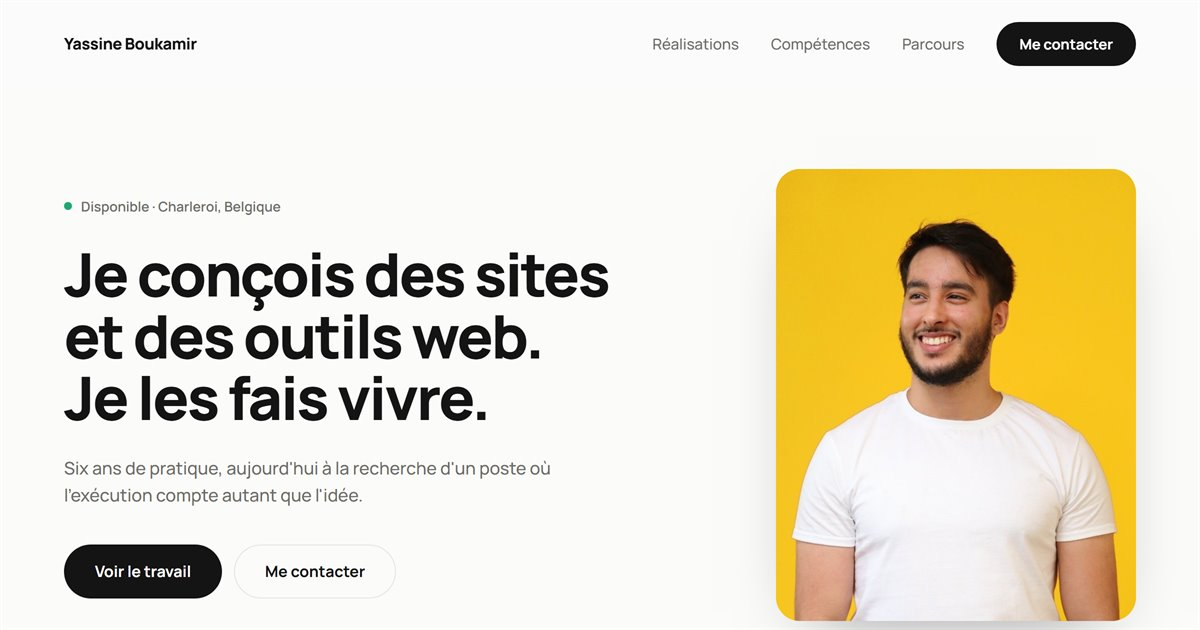
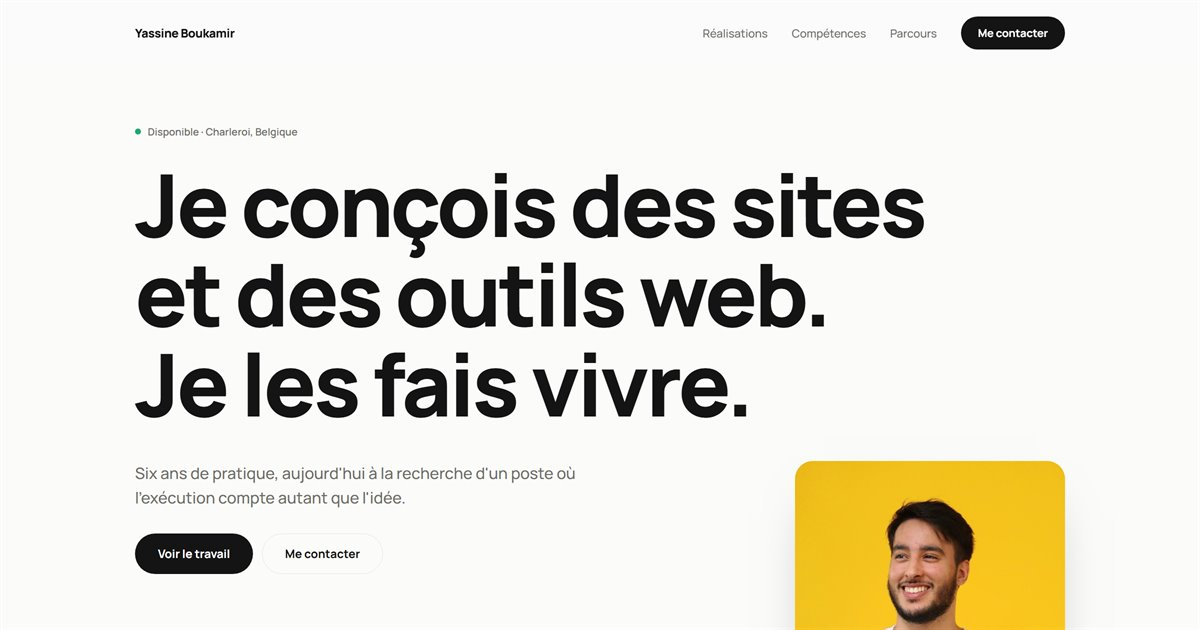
Refonte le heros en pleine largeur
Le titre occupe toute la largeur, seul sur sa ligne. Le chapo, les boutons et
la photo se partagent la ligne du dessous.

Ce n'est pas cosmetique. Tant que le titre partageait sa ligne avec la photo,
sa colonne faisait 715 px a 1440 et le plafonnait a 78 : les titres de
section, montes a 110 hier soir, finissaient par le depasser. En pleine
largeur il dispose de 1240 px et monte a 116. La hierarchie est retablie.

La photo passe de 0,589fr a 0,45fr. A egalite avec le titre elle etait une
co-vedette ; maintenant que le titre occupe toute la largeur, elle est un
second role. Gardee a sa taille d'avant, elle descendait 390 px plus bas que
les boutons et creusait un vide que rien ne justifiait.

align-items: start et non end. Aligne en bas, le bloc chapo + boutons se
retrouvait a 437 px sous le titre, separe de lui par un vide absurde.

LA PENTE, ENCORE. Troisieme fois en une soiree que le titre bascule a quatre
lignes entre deux largeurs ou il en fait trois -- a 905, puis a 1280, puis a
1201. Toujours la meme cause : au franchissement d'une rupture, la marge
laterale et la largeur de la photo changent d'un coup, et la colonne de texte
RETRECIT alors que la fenetre s'elargit. A 9vw, la marge tombait a 8 px sur
une ligne de 993 juste au-dessus de 1200. A 8,7vw elle ne descend jamais sous
41 px : verifie a 901 (50 px) et a 1201 (41 px), les deux points serres.

Apercu de partage : le script capture maintenant 1600 x 840 puis reduit, au
[…]

diff --git a/css/style.css b/css/style.css
@@ -223,20 +223,32 @@ a { color: inherit; }
 
 /* ========== 6. HÉROS ========== */
 
-.heros { padding-block: 80px 110px; }
-.heros-grille {
+.heros { padding-block: 72px 64px; }
+
+/* Le titre occupe désormais toute la largeur, seul. Ce qui suit — chapô,
+   boutons, photo — se partage la ligne du dessous.
+
+   Ce n'est pas un caprice de mise en page : c'est ce qui débloque la taille du
+   titre. Tant qu'il partageait sa ligne avec la photo, sa colonne faisait
+   715 px à 1440 et le plafonnait à 78. En pleine largeur il dispose de
+   1240 px, et « Je conçois des sites » y tient jusqu'à 135 px. On s'arrête à
+   116 : au-delà, le titre à trois lignes dépasse la hauteur d'un écran de
+   portable et le chapô comme les boutons passent sous la ligne de flottaison. */
+.heros-bas {
   display: grid;
-  /* La photo était figée à 430 px. Conséquence invisible tant que le titre
-     restait petit : en franchissant 1200 px vers le haut, la marge passe de
-     64 à 100 px ET la photo de 360 à 430 — la colonne de texte perdait d'un
-     coup 165 px, alors qu'elle venait de gagner de la place. À 1280 px le
-     titre repassait donc à quatre lignes, entre deux largeurs où il en fait
-     trois.
-     En fractions, la proportion est celle de la maquette à 1440 (730 / 80 /
-     430) et elle se conserve en dessous au lieu de sauter. */
-  grid-template-columns: 1fr 0.589fr;
+  /* La photo rétrécit : 0,45fr au lieu de 0,589. Quand le titre partageait sa
+     ligne avec elle, ils étaient à égalité ; maintenant que le titre occupe
+     toute la largeur, la photo est un second rôle. Gardée à sa taille d'avant,
+     elle descendait 390 px plus bas que les boutons et creusait un vide que
+     rien ne venait justifier. */
+  grid-template-columns: 1fr 0.45fr;
   gap: 80px;
-  align-items: center;
+  /* start, pas end : la photo fait 540 px de haut et le bloc chapô + boutons
+     environ 150. Aligné en bas, ce dernier se retrouvait à 437 px sous le
+     titre, séparé de lui par un vide que rien ne justifiait. Aligné en haut,
+     il suit le titre et la photo descend seule. */
+  align-items: start;
+  margin-top: 44px;
 }
 
 .pastille {
@@ -249,25 +261,24 @@ a { color: inherit; }
   background: var(--dispo-pastille); flex-shrink: 0;
 }
 
-/* Le héros est le seul titre qui ne peut PAS grandir librement : il partage sa
-   ligne avec la photo. Sa colonne fait 715 px à 1440, et « Je conçois des
-   sites » y tient sur une ligne jusqu'à 78 px — mesuré, pas estimé.
+/* 8,7vw, et le chiffre n'est pas décoratif : c'est la pente qui décide, pas
+   le plafond — troisième fois que cette page le rappelle.
 
-   Mais le plafond ne suffit pas : c'est la PENTE qui compte. Essayé à 5,3vw,
-   le titre repassait à quatre lignes vers 905 px, là où la colonne tombe à
-   441 px — exactement le défaut corrigé plus haut par la photo élastique,
-   recréé par le bas. 5vw laisse une marge à chaque largeur : 72 px à 1440
-   pour une colonne qui en accepte 78, 45 px à 905 pour 47.
+   À 9vw, la marge tombait à 8 px sur une ligne de 993 juste au-dessus de
+   1200, là où la marge latérale passe de 64 à 100 px : le conteneur perd
+   72 px pendant que la typo continue de grandir. 8 px sur 993, c'est 0,8 % —
+   n'importe quelle variation de rendu, ou la police de repli affichée le
+   temps du chargement, faisait basculer le titre à quatre lignes.
 
-   Les titres de section, eux, occupent toute la largeur et peuvent doubler.
-   C'est là que la page gagne de l'aplomb, pas ici. */
-.heros h1 { font-size: clamp(42px, 5vw, 72px); }
+   À 8,7vw la marge ne descend jamais sous 53 px, ni à 901 ni à 1201, les deux
+   points serrés. Le plafond de 116 est atteint à 1333. Vérifié de 360 à 1920. */
+.heros h1 { font-size: clamp(42px, 8.7vw, 116px); }
 
 .chapo {
   font-size: clamp(16px, 1.45vw, 21px); line-height: 1.55; font-weight: 500;
-  color: var(--gris); max-width: 46ch; margin-top: 26px;
+  color: var(--gris); max-width: 46ch;
 }
-.heros-actions { display: flex; flex-wrap: wrap; gap: 12px; margin-top: 36px; }
+.heros-actions { display: flex; flex-wrap: wrap; gap: 12px; margin-top: 32px; }
 
 /* Le seul aplat de couleur de la page. Le jaune n'apparaît nulle part ailleurs. */
 .heros-photo {
@@ -530,11 +541,10 @@ a { color: inherit; }
 
 @media (max-width: 1200px) {
   :root { --marge: 64px; }
-  /* La photo était figée à 360 px jusqu’à la rupture de 900. Juste au-dessus,
-     vers 920 px, elle laissait 361 px au texte — moins qu’à elle — et le titre
-     passait à quatre lignes au lieu de trois. En la laissant maigrir avec la
-     fenêtre, le texte garde la majorité sur toute la bande. */
-  .heros-grille { grid-template-columns: minmax(0, 1fr) clamp(280px, 30vw, 360px); gap: 56px; }
+  /* La photo maigrit avec la fenêtre au lieu de rester figée. Depuis que le
+     titre est en pleine largeur, elle ne le contraint plus — mais elle
+     contraint toujours le chapô, qui partage sa ligne. */
+  .heros-bas { grid-template-columns: minmax(0, 1fr) clamp(280px, 30vw, 360px); gap: 56px; }
   .bandeau { padding: 64px; grid-template-columns: 50% 1fr; gap: 44px; }
   .grille-competences { grid-template-columns: repeat(3, 1fr); gap: 36px 30px; }
 }
@@ -560,7 +570,7 @@ a { color: inherit; }
   .nav.ouvert a { display: block; padding: 14px 0; font-size: 17px; font-weight: 600; }
 
   .heros { padding-block: 48px 72px; }
-  .heros-grille { grid-template-columns: 1fr; gap: 40px; }
+  .heros-bas { grid-template-columns: 1fr; gap: 40px; margin-top: 32px; }
   /* Sur mobile la photo passe sous les boutons, pleine largeur. */
   .heros-photo { aspect-ratio: auto; height: 400px; border-radius: 20px; }
 

diff --git a/index.html b/index.html
@@ -94,38 +94,44 @@
 
     <!-- ========== 1. HÉROS ========== -->
     <section class="heros" id="accueil" aria-labelledby="titre-heros">
-      <div class="conteneur heros-grille">
-        <div class="heros-texte">
-          <p class="pastille"><span class="point" aria-hidden="true"></span>Disponible · Charleroi, Belgique</p>
-          <!-- L'espace avant chaque <br> n'est pas une coquille. Quand la règle
-               qui masque les <br> s'applique, sans lui les mots se collent :
-               « des siteset des outils web.Je les fais vivre. ». Un espace
-               avant un saut de ligne, lui, ne se voit pas. -->
-          <h1 id="titre-heros">Je conçois des sites <br>et des outils web. <br>Je les fais vivre.</h1>
-          <p class="chapo">
-            Six ans de pratique, aujourd'hui à la recherche d'un poste où
-            l'exécution compte autant que l'idée.
-          </p>
-          <div class="heros-actions">
-            <a class="btn btn-encre" href="#realisations">Voir le travail</a>
-            <a class="btn btn-filet" href="#contact">Me contacter</a>
-          </div>
-        </div>
+      <div class="conteneur">
+        <p class="pastille"><span class="point" aria-hidden="true"></span>Disponible · Charleroi, Belgique</p>
 
-        <!-- fetchpriority="high" et pas de lazy : c'est la seule image visible
-             au chargement, la retarder décale tout le héros. -->
-        <div class="heros-photo">
-          <!-- Deux densités. La photo s'affiche à 430 px de large au maximum ;
-               sur un écran 2× il en faut 860, d'où le fichier de 900.
-               sizes suit les marges réelles : --marge vaut 24 px sous 640,
-               40 px entre 640 et 900, et la colonne est figée à 430 au-dessus.
-               Se tromper ici fait choisir au navigateur un fichier trop petit,
-               et le gain de netteté est perdu sans qu'on le voie. -->
-          <img src="assets/yassine-430.jpg"
-               srcset="assets/yassine-430.jpg 430w, assets/yassine-900.jpg 900w"
-               sizes="(max-width: 640px) calc(100vw - 48px), (max-width: 900px) calc(100vw - 80px), 430px"
-               width="430" height="526"
-               alt="Portrait de Yassine Boukamir" fetchpriority="high" decoding="async">
+        <!-- Le titre occupe toute la largeur, seul sur sa ligne. C'est ce qui
+             lui permet d'être le plus grand caractère de la page : tant qu'il
+             partageait sa ligne avec la photo, sa colonne le plafonnait à 72 px
+             et les titres de section finissaient par le dépasser.
+             L'espace avant chaque <br> n'est pas une coquille. Quand la règle
+             qui masque les <br> s'applique, sans lui les mots se collent :
+             « des siteset des outils web.Je les fais vivre. ». Un espace
+             avant un saut de ligne, lui, ne se voit pas. -->
+        <h1 id="titre-heros">Je conçois des sites <br>et des outils web. <br>Je les fais vivre.</h1>
+
+        <div class="heros-bas">
+          <div class="heros-texte">
+            <p class="chapo">
+              Six ans de pratique, aujourd'hui à la recherche d'un poste où
+              l'exécution compte autant que l'idée.
+            </p>
+            <div class="heros-actions">
+              <a class="btn btn-encre" href="#realisations">Voir le travail</a>
+              <a class="btn btn-filet" href="#contact">Me contacter</a>
+            </div>
+          </div>
+
+          <!-- fetchpriority="high" et pas de lazy : c'est la seule image visible
+               au chargement, la retarder décale tout le héros. -->
+          <div class="heros-photo">
+            <!-- Deux densités. La photo s'affiche à 430 px de large au maximum ;
+                 sur un écran 2× il en faut 860, d'où le fichier de 900.
+                 sizes suit les marges réelles : --marge vaut 24 px sous 640,
+                 40 px entre 640 et 900, et la colonne plafonne à 430 au-dessus. -->
+            <img src="assets/yassine-430.jpg"
+                 srcset="assets/yassine-430.jpg 430w, assets/yassine-900.jpg 900w"
+                 sizes="(max-width: 640px) calc(100vw - 48px), (max-width: 900px) calc(100vw - 80px), 430px"
+                 width="430" height="526"
+                 alt="Portrait de Yassine Boukamir" fetchpriority="high" decoding="async">
+          </div>
         </div>
       </div>
     </section>
